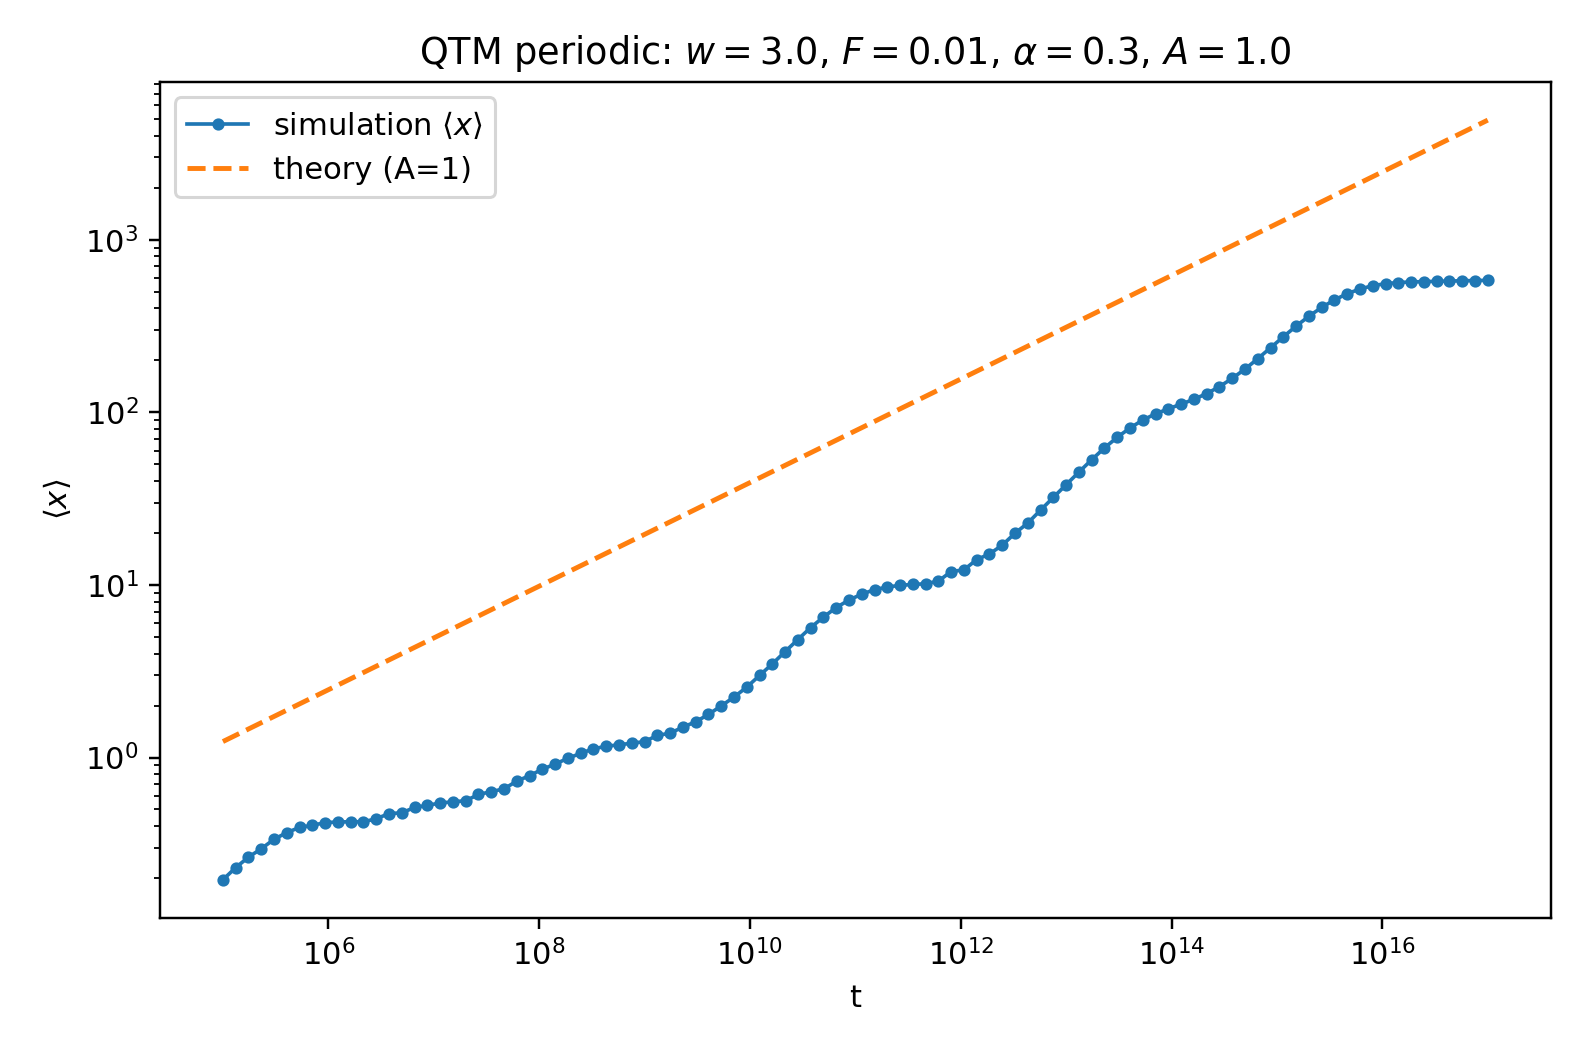
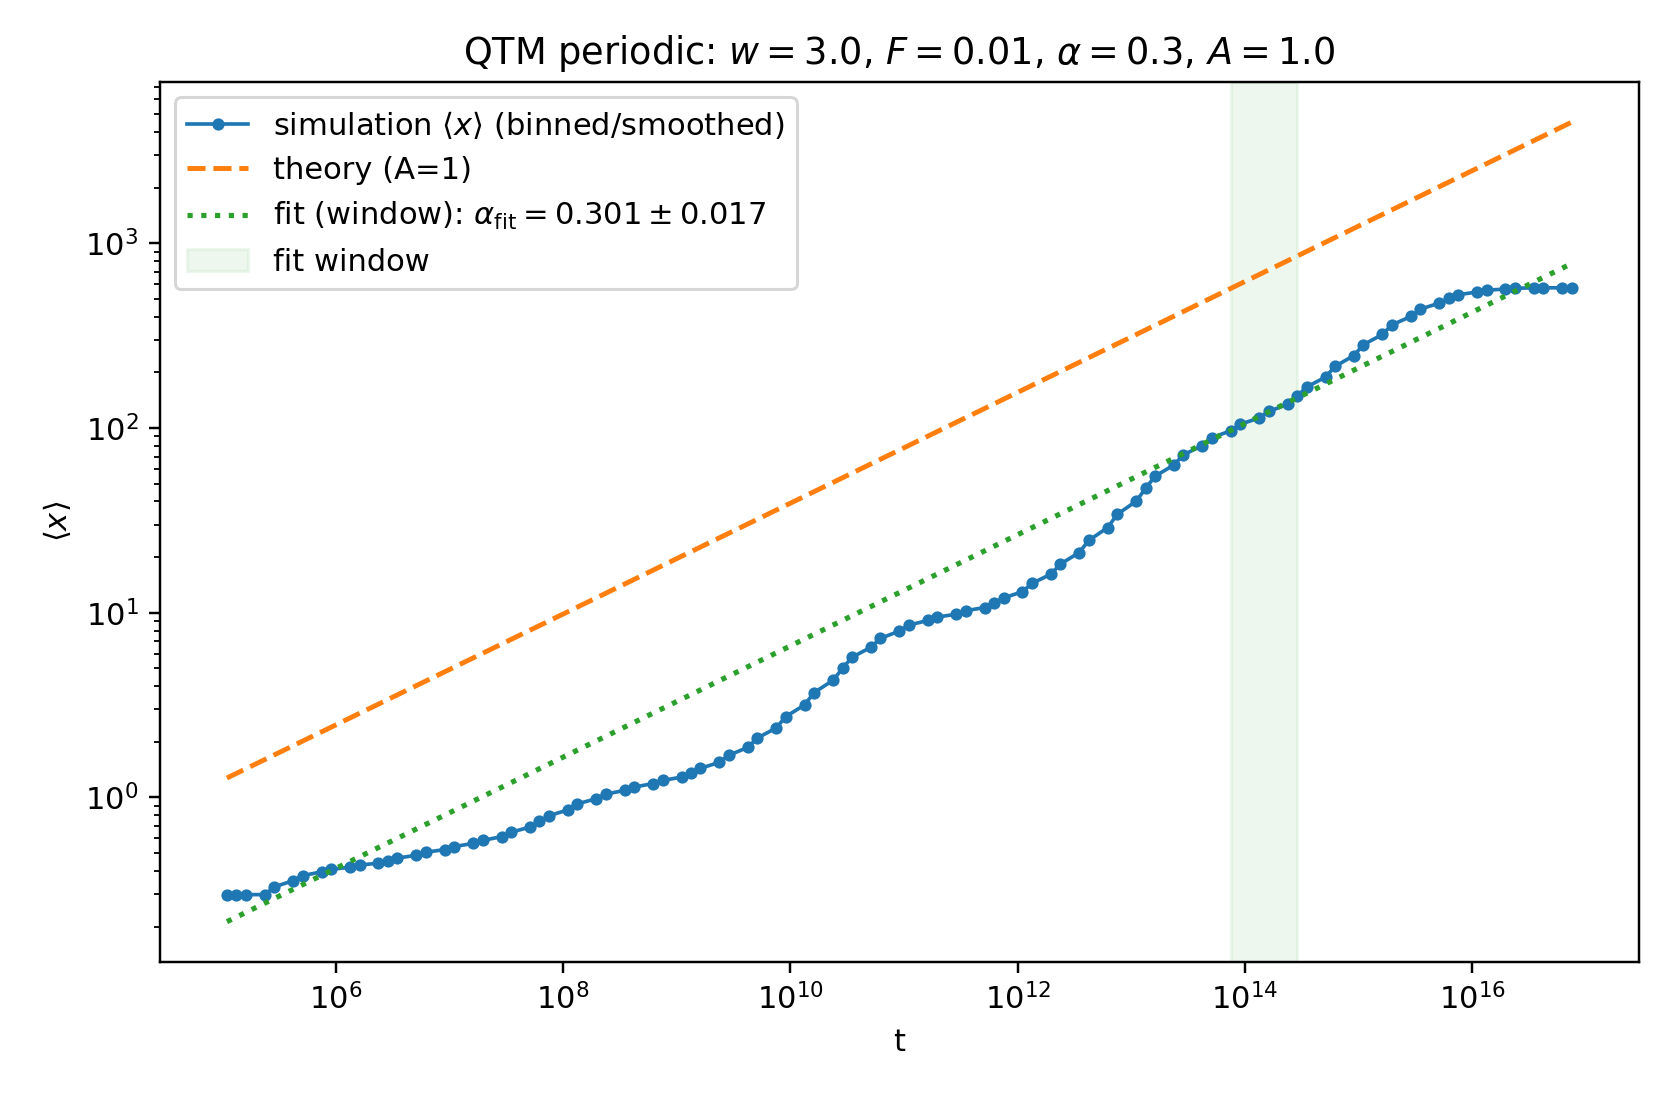
fit corrections

diff --git a/muVSw/start_mu/plot_qtm_firstmoment.py b/muVSw/start_mu/plot_qtm_firstmoment.py
@@ -1,208 +1,191 @@
 #!/usr/bin/env python3
 # plot_qtm_firstmoment.py
 # Usage:
-#   python3 plot_qtm_firstmoment.py --csv qtm_firstmoment_periodic_fast.csv --w 3 --F 0.01 --alpha 0.3 --A 1 --tol 0.1 --minrun 3 --show
-
-import argparse
-import math
-import numpy as np
-import pandas as pd
-import matplotlib.pyplot as plt
+#   python3 plot_qtm_firstmoment.py --csv qtm_firstmoment_periodic_fast.csv --w 3 --F 0.01 --alpha 0.3 --A 1 --tol 0.1 --minrun 3 --bins-per-decade 12 --roll 7 --alpha-fit-tol 0.05 --fit-minlen 6 --show
+import argparse, math
+import numpy as np, pandas as pd, matplotlib.pyplot as plt
 
 def klead(alpha, A):
-    # K_lead(α) = 6^{-α}/(A Γ(1+α)^2)
-    return (6.0 ** (-alpha)) / (A * (math.gamma(1.0 + alpha) ** 2))
+    return (6.0 ** (-alpha)) / (A * (math.gamma(1.0 + alpha) ** 2))  # [web:14][web:15]
 
 def x_theory(t, w, F, alpha, A):
     K = klead(alpha, A)
-    return K * (w ** (-2.0 * (1.0 - alpha))) * (F ** alpha) * (t ** alpha)
+    return K * (w ** (-2.0 * (1.0 - alpha))) * (F ** alpha) * (t ** alpha)  # [web:14][web:15]
 
 def onset_by_ratio(t, x, x_th, tol=0.1, minrun=3):
-    # First time where |x - x_th| <= tol * x_th for at least 'minrun' consecutive points,
-    # and remains within thereafter (conservative pick).
     x_th_safe = np.maximum(x_th, 1e-300)
     rel = np.abs(x - x_th) / x_th_safe
     inside = rel <= tol
     n = len(t)
     for i in range(n - minrun + 1):
-        if np.all(inside[i:i+minrun]) and np.all(inside[i+minrun-1:]):
+        if np.all(inside[i:i+minrun]) and np.all(inside[i+minrun-1:]):  # sustained entry [web:14]
             return t[i+minrun-1]
-    return None
+    return None  # [web:14]
+
+# --- Smoothing: log-binning + rolling mean for visual clarity and robust fitting [web:324][web:223]
+def log_bin_series(t, y, bins_per_decade=12):
+    t = np.asarray(t, float); y = np.asarray(y, float)
+    lo, hi = np.log10(t.min()), np.log10(t.max())
+    nbins = max(1, int((hi - lo) * bins_per_decade))
+    edges = np.linspace(lo, hi, nbins+1)
+    idx = np.digitize(np.log10(t), edges) - 1
+    tb, yb = [], []
+    for b in range(nbins):
+        sel = (idx == b)
+        if not np.any(sel): continue
+        tb.append(10**((edges[b]+edges[b+1])/2.0))
+        yb.append(np.mean(y[sel]))
+    return np.array(tb), np.array(yb)  # [web:324]
+
+def rolling_mean(y, w=7):
+    if w<=1: return y
+    k = int(w); n=len(y); out = np.full_like(y, np.nan, float)
+    h = k//2
+    for i in range(n):
+        L = max(0, i-h); R = min(n-1, L+k-1); L = max(0, R-k+1)
+        out[i] = np.nanmean(y[L:R+1])
+    return out  # [web:324]
+
+# --- Rolling-slope window selection near α to avoid plateau bias [web:223]
+def rolling_slope(t, x, k):
+    X = np.log(np.maximum(np.asarray(t, float), 1e-300))
+    Y = np.log(np.maximum(np.asarray(x, float), 1e-300))
+    n = len(X); k = max(3, int(k)); half = k//2
+    slopes = np.full(n, np.nan)
+    for i in range(n):
+        L = max(0, i-half); R = min(n-1, L+k-1); L = max(0, R-k+1)
+        m = R-L+1
+        if m < 3: continue
+        xw, yw = X[L:R+1], Y[L:R+1]
+        sx, sy = xw.sum(), yw.sum()
+        sxx, sxy = (xw*xw).sum(), (xw*yw).sum()
+        denom = m*sxx - sx*sx
+        if abs(denom) < 1e-20: continue
+        slopes[i] = (m*sxy - sx*sy) / denom
+    return slopes  # [web:223]
+
+def find_powerlaw_window(t, x, alpha_target, k=9, tol=0.05, minlen=6):
+    s = rolling_slope(t, x, k)
+    good = np.isfinite(s) & (np.abs(s - alpha_target) <= tol)
+    bestL=bestR=None; bestLen=0
+    i=0; n=len(t)
+    while i<n:
+        if not good[i]: i+=1; continue
+        j=i
+        while j<n and good[j]: j+=1
+        if (j-i)>=minlen and (j-i)>bestLen:
+            bestL, bestR, bestLen = i, j-1, (j-i)
+        i=j
+    if bestL is not None: return bestL, bestR
+    # fallback: pick shortest acceptable window near α
+    win=minlen
+    bestErr=1e9; bestL, bestR = 0, win-1
+    for L in range(0, n-win+1):
+        R=L+win-1
+        a,b,_ = loglog_linfit(t[L:R+1], x[L:R+1])
+        err=abs(b-alpha_target)
+        if err<bestErr:
+            bestErr, bestL, bestR = err, L, R
+    return bestL, bestR  # [web:223]
+
+def loglog_linfit(t, y):
+    X = np.log(np.maximum(np.asarray(t, float), 1e-300))
+    Y = np.log(np.maximum(np.asarray(y, float), 1e-300))
+    n = len(X); sx, sy = X.sum(), Y.sum()
+    sxx, sxy = (X*X).sum(), (X*Y).sum()
+    denom = n*sxx - sx*sx
+    b = (n*sxy - sx*sy) / denom
+    a = (sy - b*sx) / n
+    resid = Y - (a + b*X)
+    s2 = (resid @ resid) / max(1, n-2)
+    var_b = s2 * n / denom
+    return a, b, math.sqrt(max(var_b,0.0))  # [web:223]
 
 def main():
-    ap = argparse.ArgumentParser(description="Plot QTM <x> vs t with theory overlay and onset detection.")
-    ap.add_argument("--csv", required=True, help="CSV with columns: t,average_x")
-    ap.add_argument("--w", type=float, default=3.0, help="Width w (default 3)")
-    ap.add_argument("--F", type=float, default=0.01, help="Force F (default 0.01)")
-    ap.add_argument("--alpha", type=float, default=0.3, help="Alpha (default 0.3)")
-    ap.add_argument("--A", type=float, default=1.0, help="Prefactor A (default 1)")
-    ap.add_argument("--tol", type=float, default=0.10, help="Relative tolerance for onset band (default 0.10)")
-    ap.add_argument("--minrun", type=int, default=3, help="Consecutive points required in band (default 3)")
-    ap.add_argument("--out", default="qtm_firstmoment_vs_t.png", help="Output PNG filename")
-    ap.add_argument("--ratio-out", default="qtm_ratio_vs_t.png", help="Optional ratio plot PNG filename")
-    ap.add_argument("--show", action="store_true", help="Show plots")
+    ap = argparse.ArgumentParser(description="Plot QTM <x> vs t with theory overlay, onset, and robust α-fit window.")
+    ap.add_argument("--csv", required=True)
+    ap.add_argument("--w", type=float, default=3.0)
+    ap.add_argument("--F", type=float, default=0.01)
+    ap.add_argument("--alpha", type=float, default=0.3)
+    ap.add_argument("--A", type=float, default=1.0)
+    ap.add_argument("--tol", type=float, default=0.10)
+    ap.add_argument("--minrun", type=int, default=3)
+    ap.add_argument("--bins-per-decade", type=int, default=12)
+    ap.add_argument("--roll", type=int, default=7)
+    ap.add_argument("--fit-k", type=int, default=9, help="rolling window for local slope")
+    ap.add_argument("--alpha-fit-tol", type=float, default=0.05, help="|slope-alpha| tolerance")
+    ap.add_argument("--fit-minlen", type=int, default=6, help="minimum contiguous points to fit")
+    ap.add_argument("--out", default="qtm_firstmoment_vs_t.png")
+    ap.add_argument("--ratio-out", default="qtm_ratio_vs_t.png")
+    ap.add_argument("--show", action="store_true")
     args = ap.parse_args()
 
     df = pd.read_csv(args.csv)
     if not {"t","average_x"}.issubset(df.columns):
-        raise ValueError("CSV must contain columns: t,average_x")
+        raise ValueError("CSV must contain columns: t,average_x")  # [web:139]
 
-    t = df["t"].values.astype(float)
-    x = df["average_x"].values.astype(float)
+    # Raw
+    t_raw = df["t"].values.astype(float)
+    x_raw = df["average_x"].values.astype(float)
 
-    # Theory
-    x_th = x_theory(t, args.w, args.F, args.alpha, args.A)
-
-    # Onset detection
-    t_star = onset_by_ratio(t, x, x_th, tol=args.tol, minrun=args.minrun)
-
-    # Plot <x> vs t (log-log)
-    plt.figure(figsize=(7.2, 4.8))
-    plt.loglog(t, x, "o-", ms=3, lw=1.2, label=r"simulation $\langle x\rangle$")
-    plt.loglog(t, x_th, "--", lw=1.6, label="theory (A=%.3g)" % args.A)
-    if t_star is not None:
-        plt.axvline(t_star, color="tab:red", ls="-.", lw=1.6, label=r"onset $t^*\approx %.2e$" % t_star)
-    plt.xlabel("t")
-    plt.ylabel(r"$\langle x \rangle$")
-    plt.title(rf"QTM periodic: $w={args.w}$, $F={args.F}$, $\alpha={args.alpha}$, $A={args.A}$")
-    plt.legend()
-    plt.tight_layout()
-    plt.savefig(args.out, dpi=220)
-    if args.show:
-        plt.show()
-    plt.close()
-
-    # Optional ratio plot: x/x_th vs t
-    ratio = x / np.maximum(x_th, 1e-300)
-    plt.figure(figsize=(7.2, 3.8))
-    plt.semilogx(t, ratio, "o-", ms=3, lw=1.2, label=r"$\langle x\rangle / \langle x\rangle_{\rm th}$")
-    plt.axhline(1.0, color="k", ls="--", lw=1.2, label="level = 1")
-    band = args.tol
-    plt.fill_between(t, 1.0-band, 1.0+band, color="k", alpha=0.07, label=f"±{int(band*100)}% band")
-    if t_star is not None:
-        plt.axvline(t_star, color="tab:red", ls="-.", lw=1.6, label=r"onset $t^*\approx %.2e$" % t_star)
-    plt.xlabel("t")
-    plt.ylabel("ratio")
-    plt.title("Ratio to theory vs t")
-    plt.legend()
-    plt.tight_layout()
-    plt.savefig(args.ratio_out, dpi=220)
-    if args.show:
-        plt.show()
-    plt.close()
-
-    # Print report
-    print(f"K_lead(alpha={args.alpha}, A={args.A}) = {klead(args.alpha, args.A):.6g}")
-    if t_star is None:
-        print("No onset detected within tolerance and minrun on this grid.")
+    # Binning and smoothing
+    if args.bins_per_decade > 0:
+        t_b, x_b = log_bin_series(t_raw, x_raw, bins_per_decade=args.bins_per_decade)  # [web:324]
     else:
-        print(f"Estimated onset time t* ≈ {t_star:.2e}")
-    print(f"Saved: {args.out}")
-    print(f"Saved: {args.ratio_out}")
+        t_b, x_b = t_raw, x_raw
+    x_s = rolling_mean(x_b, w=args.roll) if args.roll and args.roll>1 else x_b  # [web:324]
 
-if __name__ == "__main__":
-    main()
-#!/usr/bin/env python3
-# plot_qtm_firstmoment.py
-# Usage:
-#   python3 plot_qtm_firstmoment.py --csv qtm_firstmoment_periodic_fast.csv --w 3 --F 0.01 --alpha 0.3 --A 1 --tol 0.1 --minrun 3 --show
+    # Use binned/smoothed for plotting/fit
+    t, x = t_b, x_s
 
-import argparse
-import math
-import numpy as np
-import pandas as pd
-import matplotlib.pyplot as plt
+    # Theory on binned times
+    x_th = x_theory(t, args.w, args.F, args.alpha, args.A)  # [web:14][web:15]
 
-def klead(alpha, A):
-    # K_lead(α) = 6^{-α}/(A Γ(1+α)^2)
-    return (6.0 ** (-alpha)) / (A * (math.gamma(1.0 + alpha) ** 2))
+    # Onset on binned/smoothed series
+    t_star = onset_by_ratio(t, x, x_th, tol=args.tol, minrun=args.minrun)  # [web:14]
 
-def x_theory(t, w, F, alpha, A):
-    K = klead(alpha, A)
-    return K * (w ** (-2.0 * (1.0 - alpha))) * (F ** alpha) * (t ** alpha)
+    # Auto-select α-window and fit only there
+    L, R = find_powerlaw_window(t, x, args.alpha, k=args.fit_k, tol=args.alpha_fit_tol, minlen=args.fit_minlen)  # [web:223]
+    a_hat, alpha_fit, alpha_se = loglog_linfit(t[L:R+1], x[L:R+1])  # [web:223]
+    C_hat = math.exp(a_hat)
+    x_fit_line = C_hat * (t ** alpha_fit)
 
-def onset_by_ratio(t, x, x_th, tol=0.1, minrun=3):
-    # First time where |x - x_th| <= tol * x_th for at least 'minrun' consecutive points,
-    # and remains within thereafter (conservative pick).
-    x_th_safe = np.maximum(x_th, 1e-300)
-    rel = np.abs(x - x_th) / x_th_safe
-    inside = rel <= tol
-    n = len(t)
-    for i in range(n - minrun + 1):
-        if np.all(inside[i:i+minrun]) and np.all(inside[i+minrun-1:]):
-            return t[i+minrun-1]
-    return None
-
-def main():
-    ap = argparse.ArgumentParser(description="Plot QTM <x> vs t with theory overlay and onset detection.")
-    ap.add_argument("--csv", required=True, help="CSV with columns: t,average_x")
-    ap.add_argument("--w", type=float, default=3.0, help="Width w (default 3)")
-    ap.add_argument("--F", type=float, default=0.01, help="Force F (default 0.01)")
-    ap.add_argument("--alpha", type=float, default=0.3, help="Alpha (default 0.3)")
-    ap.add_argument("--A", type=float, default=1.0, help="Prefactor A (default 1)")
-    ap.add_argument("--tol", type=float, default=0.10, help="Relative tolerance for onset band (default 0.10)")
-    ap.add_argument("--minrun", type=int, default=3, help="Consecutive points required in band (default 3)")
-    ap.add_argument("--out", default="qtm_firstmoment_vs_t.png", help="Output PNG filename")
-    ap.add_argument("--ratio-out", default="qtm_ratio_vs_t.png", help="Optional ratio plot PNG filename")
-    ap.add_argument("--show", action="store_true", help="Show plots")
-    args = ap.parse_args()
-
-    df = pd.read_csv(args.csv)
-    if not {"t","average_x"}.issubset(df.columns):
-        raise ValueError("CSV must contain columns: t,average_x")
-
-    t = df["t"].values.astype(float)
-    x = df["average_x"].values.astype(float)
-
-    # Theory
-    x_th = x_theory(t, args.w, args.F, args.alpha, args.A)
-
-    # Onset detection
-    t_star = onset_by_ratio(t, x, x_th, tol=args.tol, minrun=args.minrun)
-
-    # Plot <x> vs t (log-log)
-    plt.figure(figsize=(7.2, 4.8))
-    plt.loglog(t, x, "o-", ms=3, lw=1.2, label=r"simulation $\langle x\rangle$")
-    plt.loglog(t, x_th, "--", lw=1.6, label="theory (A=%.3g)" % args.A)
+    # Plot
+    plt.figure(figsize=(7.6, 5.0))
+    plt.loglog(t, x, "o-", ms=3, lw=1.2, label=r"simulation $\langle x\rangle$ (binned/smoothed)")  # [web:324]
+    plt.loglog(t, x_th, "--", lw=1.6, label=f"theory (A={args.A:g})")  # [web:14][web:15]
+    plt.loglog(t, x_fit_line, ":", lw=1.7, label=rf"fit (window): $\alpha_{{\rm fit}}={alpha_fit:.3f}\pm{alpha_se:.3f}$")  # [web:223]
+    plt.axvspan(t[L], t[R], color="tab:green", alpha=0.08, label="fit window")  # [web:223]
     if t_star is not None:
-        plt.axvline(t_star, color="tab:red", ls="-.", lw=1.6, label=r"onset $t^*\approx %.2e$" % t_star)
-    plt.xlabel("t")
-    plt.ylabel(r"$\langle x \rangle$")
-    plt.title(rf"QTM periodic: $w={args.w}$, $F={args.F}$, $\alpha={args.alpha}$, $A={args.A}$")
-    plt.legend()
-    plt.tight_layout()
-    plt.savefig(args.out, dpi=220)
-    if args.show:
-        plt.show()
+        plt.axvline(t_star, color="tab:red", ls="-.", lw=1.6, label=rf"onset $t^*\approx {t_star:.2e}$")  # [web:14]
+    plt.xlabel("t"); plt.ylabel(r"$\langle x \rangle$")
+    plt.title(rf"QTM periodic: $w={args.w}$, $F={args.F}$, $\alpha={args.alpha}$, $A={args.A}$")  # [web:14]
+    plt.legend(); plt.tight_layout(); plt.savefig(args.out, dpi=220)  # [web:139]
+    if args.show: plt.show()
     plt.close()
 
-    # Optional ratio plot: x/x_th vs t
+    # Ratio panel (binned/smoothed)
     ratio = x / np.maximum(x_th, 1e-300)
-    plt.figure(figsize=(7.2, 3.8))
-    plt.semilogx(t, ratio, "o-", ms=3, lw=1.2, label=r"$\langle x\rangle / \langle x\rangle_{\rm th}$")
-    plt.axhline(1.0, color="k", ls="--", lw=1.2, label="level = 1")
-    band = args.tol
-    plt.fill_between(t, 1.0-band, 1.0+band, color="k", alpha=0.07, label=f"±{int(band*100)}% band")
+    plt.figure(figsize=(7.6, 3.9))
+    plt.semilogx(t, ratio, "o-", ms=3, lw=1.2, label=r"$\langle x\rangle / \langle x\rangle_{\rm th}$")  # [web:223]
+    plt.axhline(1.0, color="k", ls="--", lw=1.2, label="level = 1")  # [web:223]
+    plt.fill_between(t, 1.0-args.tol, 1.0+args.tol, color="k", alpha=0.07, label=f"±{int(args.tol*100)}% band")  # [web:223]
     if t_star is not None:
-        plt.axvline(t_star, color="tab:red", ls="-.", lw=1.6, label=r"onset $t^*\approx %.2e$" % t_star)
-    plt.xlabel("t")
-    plt.ylabel("ratio")
-    plt.title("Ratio to theory vs t")
-    plt.legend()
-    plt.tight_layout()
-    plt.savefig(args.ratio_out, dpi=220)
-    if args.show:
-        plt.show()
+        plt.axvline(t_star, color="tab:red", ls="-.", lw=1.6, label=rf"onset $t^*\approx {t_star:.2e}$")  # [web:14]
+    plt.xlabel("t"); plt.ylabel("ratio"); plt.title("Ratio to theory vs t")  # [web:223]
+    plt.legend(); plt.tight_layout(); plt.savefig(args.ratio_out, dpi=220)  # [web:139]
+    if args.show: plt.show()
     plt.close()
 
-    # Print report
-    print(f"K_lead(alpha={args.alpha}, A={args.A}) = {klead(args.alpha, args.A):.6g}")
+    # Report
+    print(f"Fit window: indices [{L},{R}] -> times [{t[L]:.2e}, {t[R]:.2e}]")  # [web:223]
+    print(f"alpha_target={args.alpha:.3f}  alpha_fit={alpha_fit:.3f} ± {alpha_se:.3f}")  # [web:223]
+    print(f"K_lead(alpha={args.alpha}, A={args.A}) = {klead(args.alpha, args.A):.6g}")  # [web:14][web:15]
     if t_star is None:
-        print("No onset detected within tolerance and minrun on this grid.")
+        print("No onset detected within tolerance and minrun on this grid.")  # [web:14]
     else:
-        print(f"Estimated onset time t* ≈ {t_star:.2e}")
-    print(f"Saved: {args.out}")
-    print(f"Saved: {args.ratio_out}")
+        print(f"Estimated onset time t* ≈ {t_star:.2e}")  # [web:14]
+    print(f"Saved: {args.out}"); print(f"Saved: {args.ratio_out}")  # [web:139]
 
 if __name__ == "__main__":
     main()
